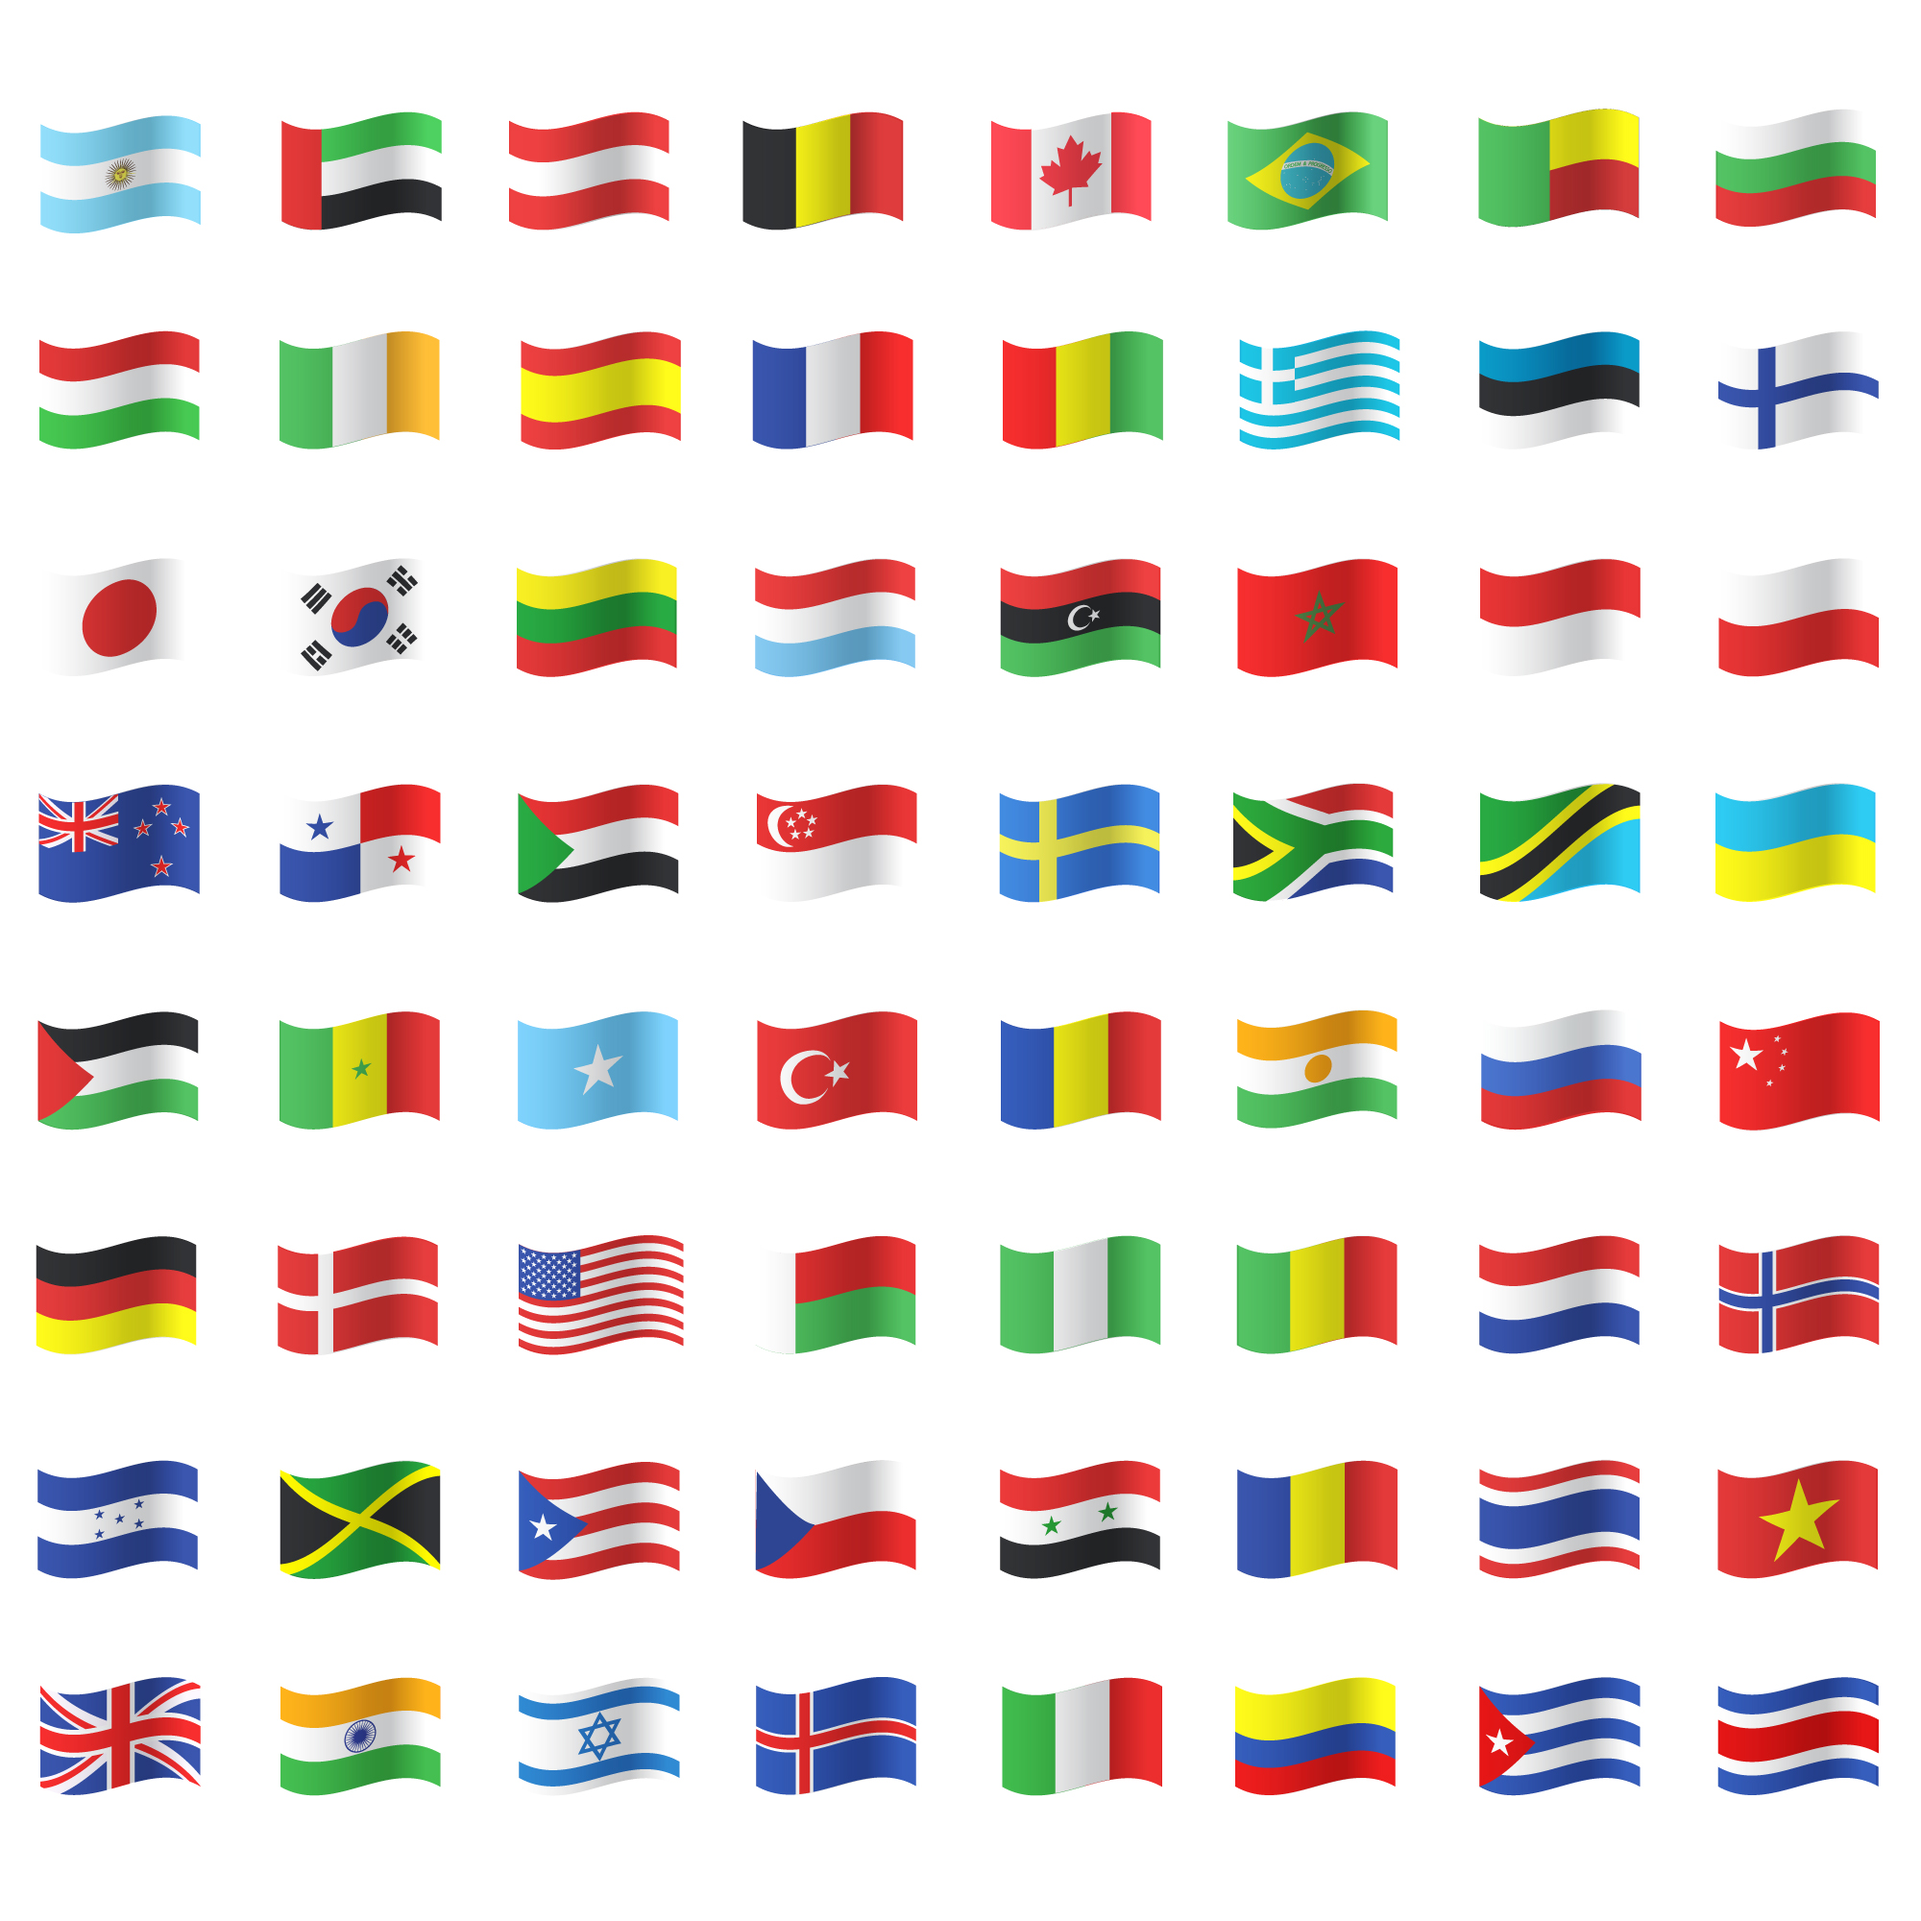
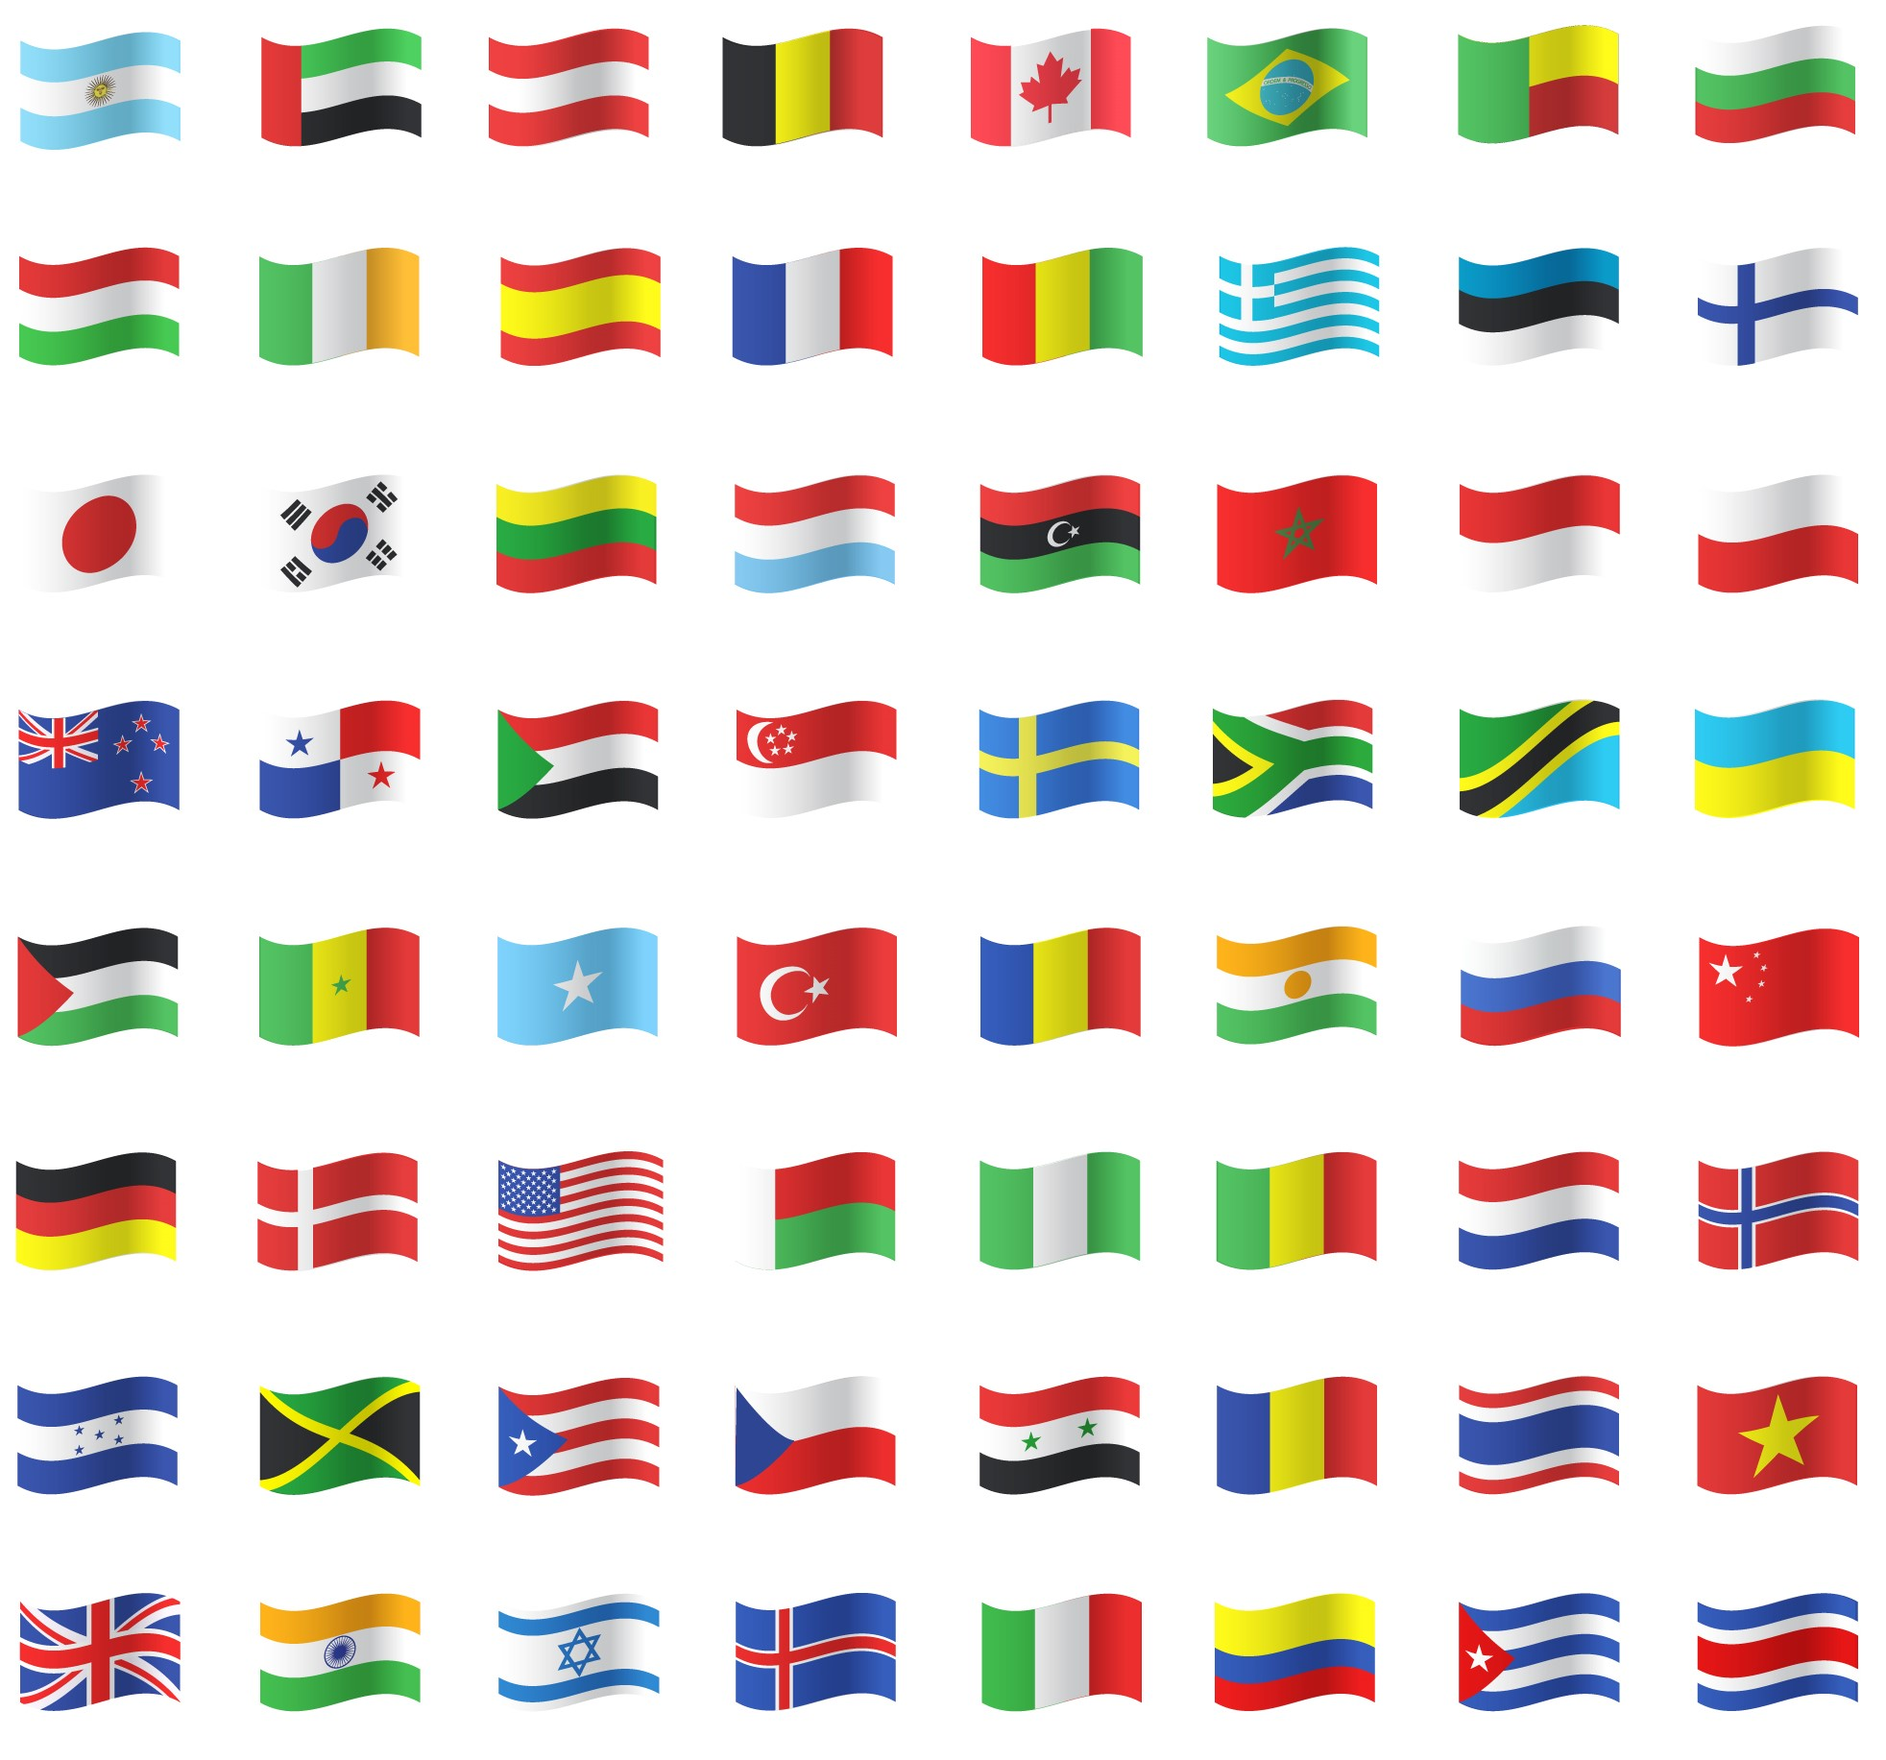
fondo

diff --git a/banderas-riccardi-granovsky/src/app/page.js b/banderas-riccardi-granovsky/src/app/page.js
@@ -1,16 +1,14 @@
 "use client";
-//foto para el fondo: https://www.freepik.es/vector-gratis/coleccion-banderas-ondeando_1152871.htm#fromView=search&page=1&position=6&uuid=e074ce47-8139-4f19-8b24-c4020251f31f
 
 import { useEffect, useState } from 'react';
 import Image from "next/image";
 import styles from "./page.module.css";
 
-
 export default function Home() {
   const [countries, setCountries] = useState([]);
   const [error, setError] = useState(null);
   const [unusedCountries, setUnusedCountries] = useState([]);
-  const [currentCounty, setCurrentCountry] = useState(); // por el que se está preguntando
+  const [currentCountry, setCurrentCountry] = useState(); // por el que se está preguntando
   let options = [];
 
   useEffect(() => {
@@ -29,6 +27,7 @@ export default function Home() {
     };
     
     fetchCountries();
+    getRandomCountry();
   }, []);
 
   const getRandomCountry = () => { //Para conseguir del que va a ser la bandera y la respuesta correcta
@@ -37,7 +36,7 @@ export default function Home() {
     let selectedCountry = unusedCountries[randomIndex];
     setUnusedCountries(unusedCountries.filter((_, index) => index !== randomIndex));
     setCurrentCountry(selectedCountry);
-    console.log("país seleccionado: ", currentCounty);
+    console.log("país seleccionado: ", currentCountry);
   };
 
   const getRandomNumber = (max) => { //no incluye a max
@@ -50,14 +49,14 @@ export default function Home() {
     for (let i = 0; i< correctAnswerPos; i++) {
       do {
         var randomIndex = getRandomNumber(countries.length);
-      } while (options.includes(countries[randomIndex]) || countries[randomIndex] == currentCounty);
+      } while (options.includes(countries[randomIndex]) || countries[randomIndex] == currentCountry);
       options.push(countries[randomIndex])
     }
-    options.push(currentCounty);
+    options.push(currentCountry);
     for (let i = correctAnswerPos; i < 4; i++) {
       do {
         randomIndex = getRandomNumber(countries.length);
-      } while (options.includes(countries[randomIndex]) || countries[randomIndex] == currentCounty);
+      } while (options.includes(countries[randomIndex]) || countries[randomIndex] == currentCountry);
       options.push(countries[randomIndex])
     }
     console.log("opciones: ", options);
@@ -67,11 +66,12 @@ export default function Home() {
   return (
     <main className={styles.main}>
       <button onClick={getRandomCountry}>1st Press me</button>
-      {currentCounty && currentCounty.flag && (
+      {currentCountry && currentCountry.flag && (
       <Image
-        src={currentCounty.flag}
+        src={currentCountry.flag}
         height={500}
         width={700}
+        alt="bandera"
       />
     )}
       <button onClick={getOptions}>2nd Press me</button>

diff --git a/banderas-riccardi-granovsky/src/app/page.module.css b/banderas-riccardi-granovsky/src/app/page.module.css
@@ -1,3 +1,10 @@
 .main {
   display: flex;
+  background-image: url('./../assets/banderas-fondo.jpg');
+  background-repeat: repeat;
+  background-size: 20%; /* tamaño de la imagen */
+  background-position: top left;
+  width: 100vw; /*para que ocupe el ancho y alto completo*/
+  height: 100vh;
+  overflow: hidden; /*no se van del borde de la pantalla*/
 }

diff --git a/banderas-riccardi-granovsky/src/app/globals.css b/banderas-riccardi-granovsky/src/app/globals.css
@@ -1,0 +1,10 @@
+html, body {
+    margin: 0;
+    padding: 0;
+    height: 100%;
+    overflow: hidden; /*sacar el scroll*/
+  }
+  
+  #root {
+    min-height: 100vh; /*el contenedor principal tiene min el tamaño de la pantalla*/
+  }
